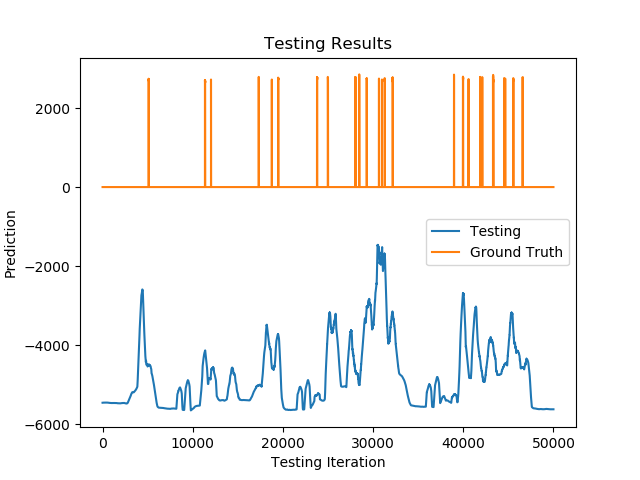
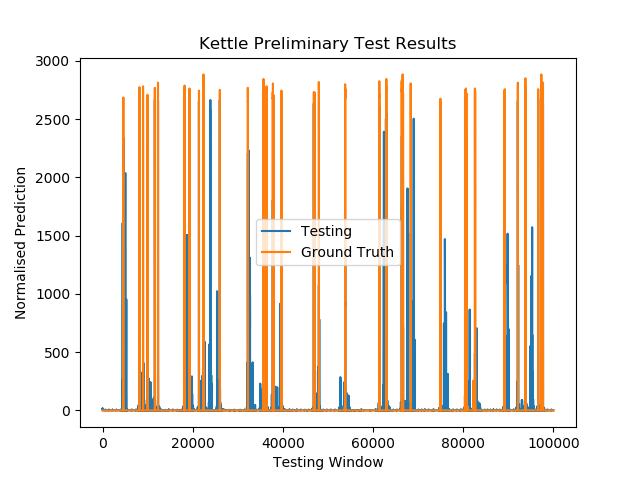
Adds stop watch for timing test times

diff --git a/seq2point_train.py b/seq2point_train.py
@@ -19,9 +19,9 @@ def train_model():
     window_offset = int((0.5 * 601 ) - 1)
 
     # Generator function to produce batches.
-    training_chunker = InputChunkSlider(file_name=training_directory, chunk_size=SIZE_OF_CHUNK, batch_size=DEFAULT_BATCH_SIZE, crop=15000, shuffle=False, offset=window_offset, header=0, ram_threshold=5*10**5)
+    training_chunker = InputChunkSlider(file_name=training_directory, chunk_size=SIZE_OF_CHUNK, batch_size=DEFAULT_BATCH_SIZE, crop=100000, shuffle=True, offset=window_offset, header=0, ram_threshold=5*10**5)
 
-    validation_chunker = InputChunkSlider(file_name=validation_directory, chunk_size=SIZE_OF_CHUNK, batch_size=DEFAULT_BATCH_SIZE, crop=6000, shuffle=False, offset=window_offset, header=0, ram_threshold=5*10**5)
+    validation_chunker = InputChunkSlider(file_name=validation_directory, chunk_size=SIZE_OF_CHUNK, batch_size=DEFAULT_BATCH_SIZE, crop=100000, shuffle=False, offset=window_offset, header=0, ram_threshold=5*10**5)
 
     # Calculate the optimum steps per epoch.
     training_chunker.check_if_chunking()
@@ -30,19 +30,18 @@ def train_model():
     # Compile the model with an Adam optimiser. Initialise early stopping callback that stops only 
     # if there's no improvement 2 epochs later.
     model = create_model()
-    model.compile(Adam(learning_rate=0.001, beta_1=0.9, beta_2=0.999), loss="mean_squared_error", metrics=["mse", "msle"]) 
-    early_stopping = EarlyStopping(monitor="loss", min_delta=0, patience=2, verbose=2, mode="auto")
+    model.compile(Adam(learning_rate=0.001, beta_1=0.9, beta_2=0.999), loss="mse", metrics=["mse", "msle", "mae"]) 
+    early_stopping = EarlyStopping(monitor="val_loss", min_delta=0.001, patience=1, verbose=2, mode="auto")
 
     # Train the model with the generator function and early stopping callback.
-
-        #     validation_data = validation_chunker.load_dataset(),
-        # validation_steps=100,
-        # validation_freq=2,
     training_history = model.fit_generator(training_chunker.load_dataset(),
         steps_per_epoch=steps_per_training_epoch,
-        epochs=10,
-        verbose=2, 
-        callbacks=[])
+        epochs=50,
+        verbose=2,
+        validation_data = validation_chunker.load_dataset(),
+        validation_steps=1000,
+        validation_freq=2,
+        callbacks=[early_stopping])
 
     # Plot the monitored metrics and save.
     plt.plot(training_history.history['mse'], label="MAE")

diff --git a/seq2point_test.py b/seq2point_test.py
@@ -2,6 +2,7 @@ import os
 import numpy as np 
 import keras
 import pandas as pd
+import time
 from model_structure import create_model, load_model
 from data_feeder import TestingChunkSlider
 import matplotlib.pyplot as plt
@@ -36,12 +37,12 @@ def test_model():
     #         print("No testing file was found.")
     #         break
 
-    test_file_name = "./kettle/kettle_validation_.csv"
+    test_file_name = "./kettle/kettle_test_.csv"
 
     offset = int(0.5 * 601 - 1)
 
     # Get the (cropped) testing dataset.
-    CROP = 500000
+    CROP = 1000000
     DEFAULT_BATCH_SIZE = 1000
     test_input, test_target = load_dataset(test_file_name, CROP)
 
@@ -56,23 +57,27 @@ def test_model():
     steps_per_test_epoch = np.round(int(test_generator.total_size / DEFAULT_BATCH_SIZE), decimals=0)
 
     # Test the model.
+    start_time = time.time()
     testing_history = model.predict_generator(test_generator.load_data(), steps=steps_per_test_epoch)
+    end_time = time.time()
+    test_time = end_time - start_time
+    print("Test Time: ", test_time)
 
-    testing_history = ((testing_history * kettle_params["std"]) + kettle_params["mean"])
+    #testing_history = ((testing_history * kettle_params["std"]) + kettle_params["mean"])
 
     #test_target = ((test_target * kettle_params["std"]) + kettle_params["mean"])
 
     # Can't have negative energy readings - set any results below 0 to 0.
-    #test_target[test_target < 0] = 0
-    #testing_history[testing_history < 0] = 0
+    test_target[test_target < 0] = 0
+    testing_history[testing_history < 0] = 0
 
     # Plot testing outcomes against ground truth.
     plt.figure(1)
     plt.plot(testing_history, label="Testing")
     plt.plot(test_target[0 : testing_history.size], label="Ground Truth")
-    plt.title('Testing Results')
-    plt.ylabel('Prediction')
-    plt.xlabel('Testing Iteration')
+    plt.title('Kettle Preliminary Test Results')
+    plt.ylabel('Normalised Prediction')
+    plt.xlabel('Testing Window')
     plt.legend()
     plt.savefig(fname="testing_results.png")
     

diff --git a/model_structure.py b/model_structure.py
@@ -26,11 +26,11 @@ def save_model(model, path):
     model.save_weights(path + "_weights.h5")
 
 def load_model(model, path):
-    try:
-        model.load_weights(path + "_weights.h5")
-        num_of_weights = model.count_params()
-        print("Loaded model with ", str(num_of_weights), " weights")
-        return model
-    except:
-        print("No saved model was found. (Takes the form of appliancename_weights.h5)")
-        return
+    # try:
+    model.load_weights("./kettle/saved_model/kettle_model_weights.h5")
+    num_of_weights = model.count_params()
+    print("Loaded model with ", str(num_of_weights), " weights")
+    return model
+    # except:
+    #     print("No saved model was found. (Takes the form of appliancename_weights.h5)")
+    #     return

diff --git a/menu.py b/menu.py
@@ -73,5 +73,5 @@ def save_directory():
 from seq2point_train import train_model
 from seq2point_test import test_model
 
-train_model()
+#train_model()
 test_model()
